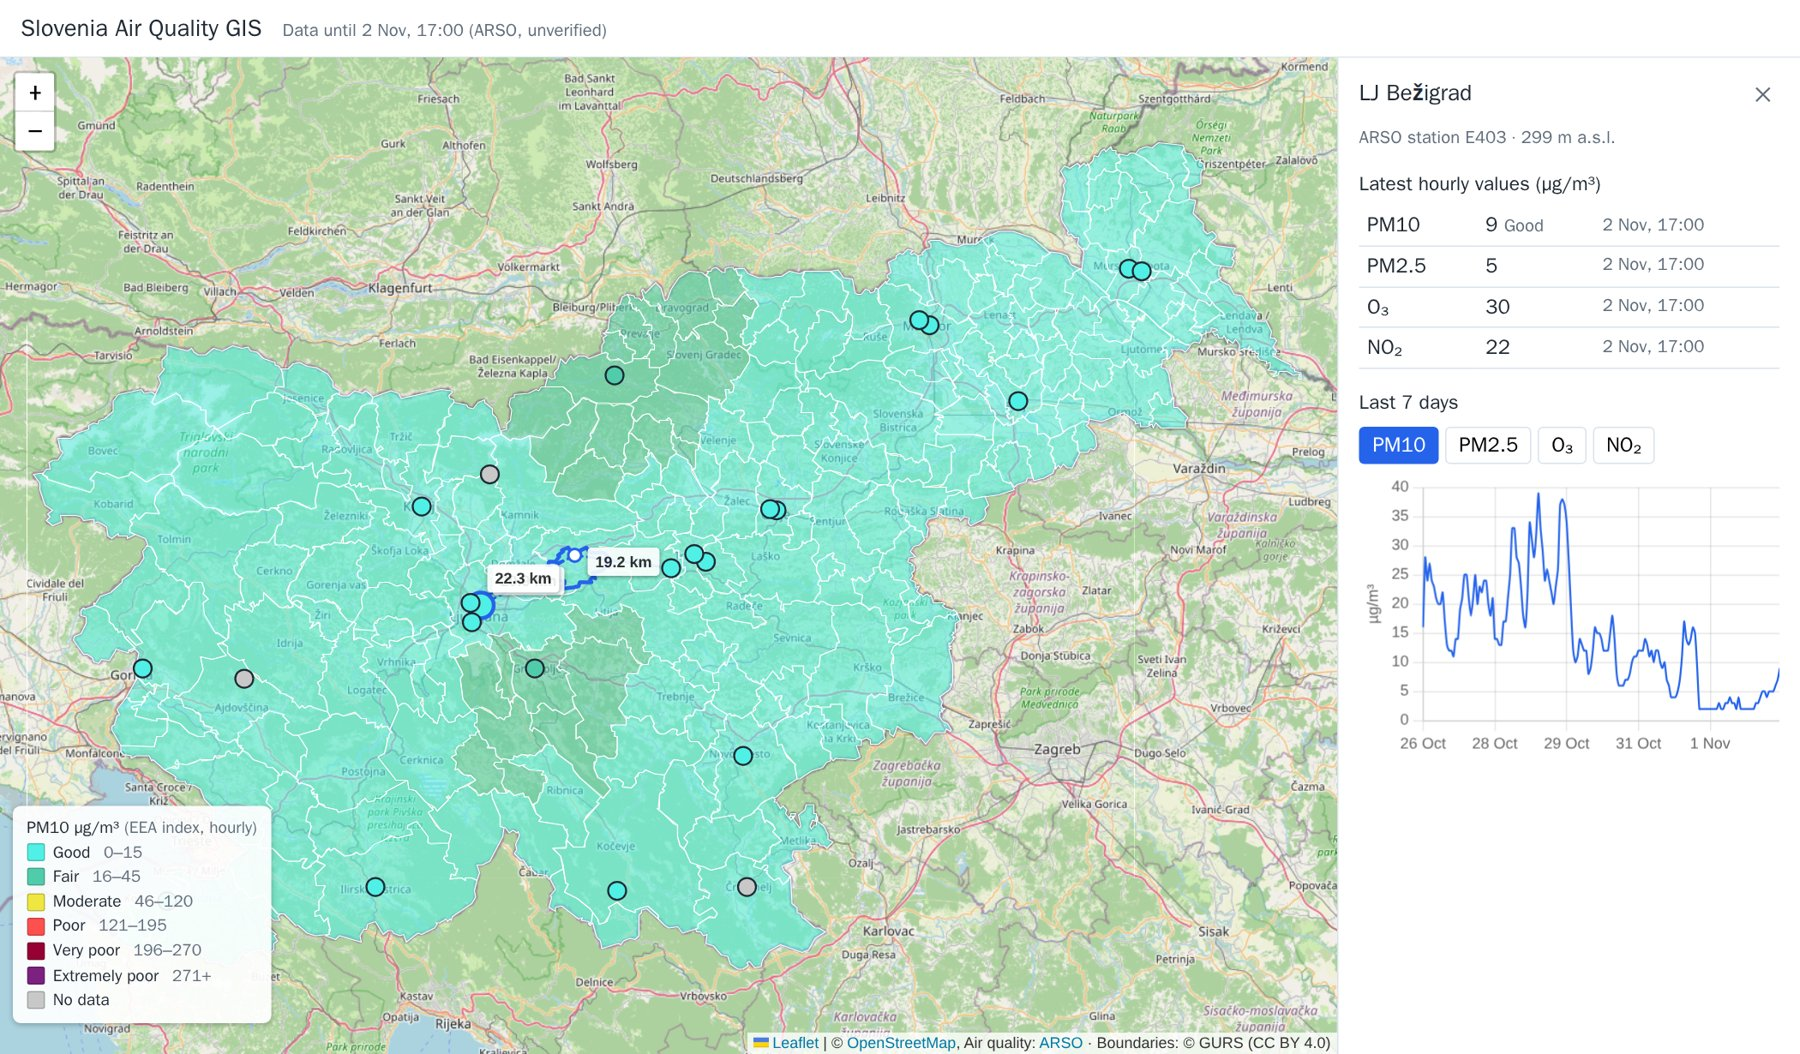
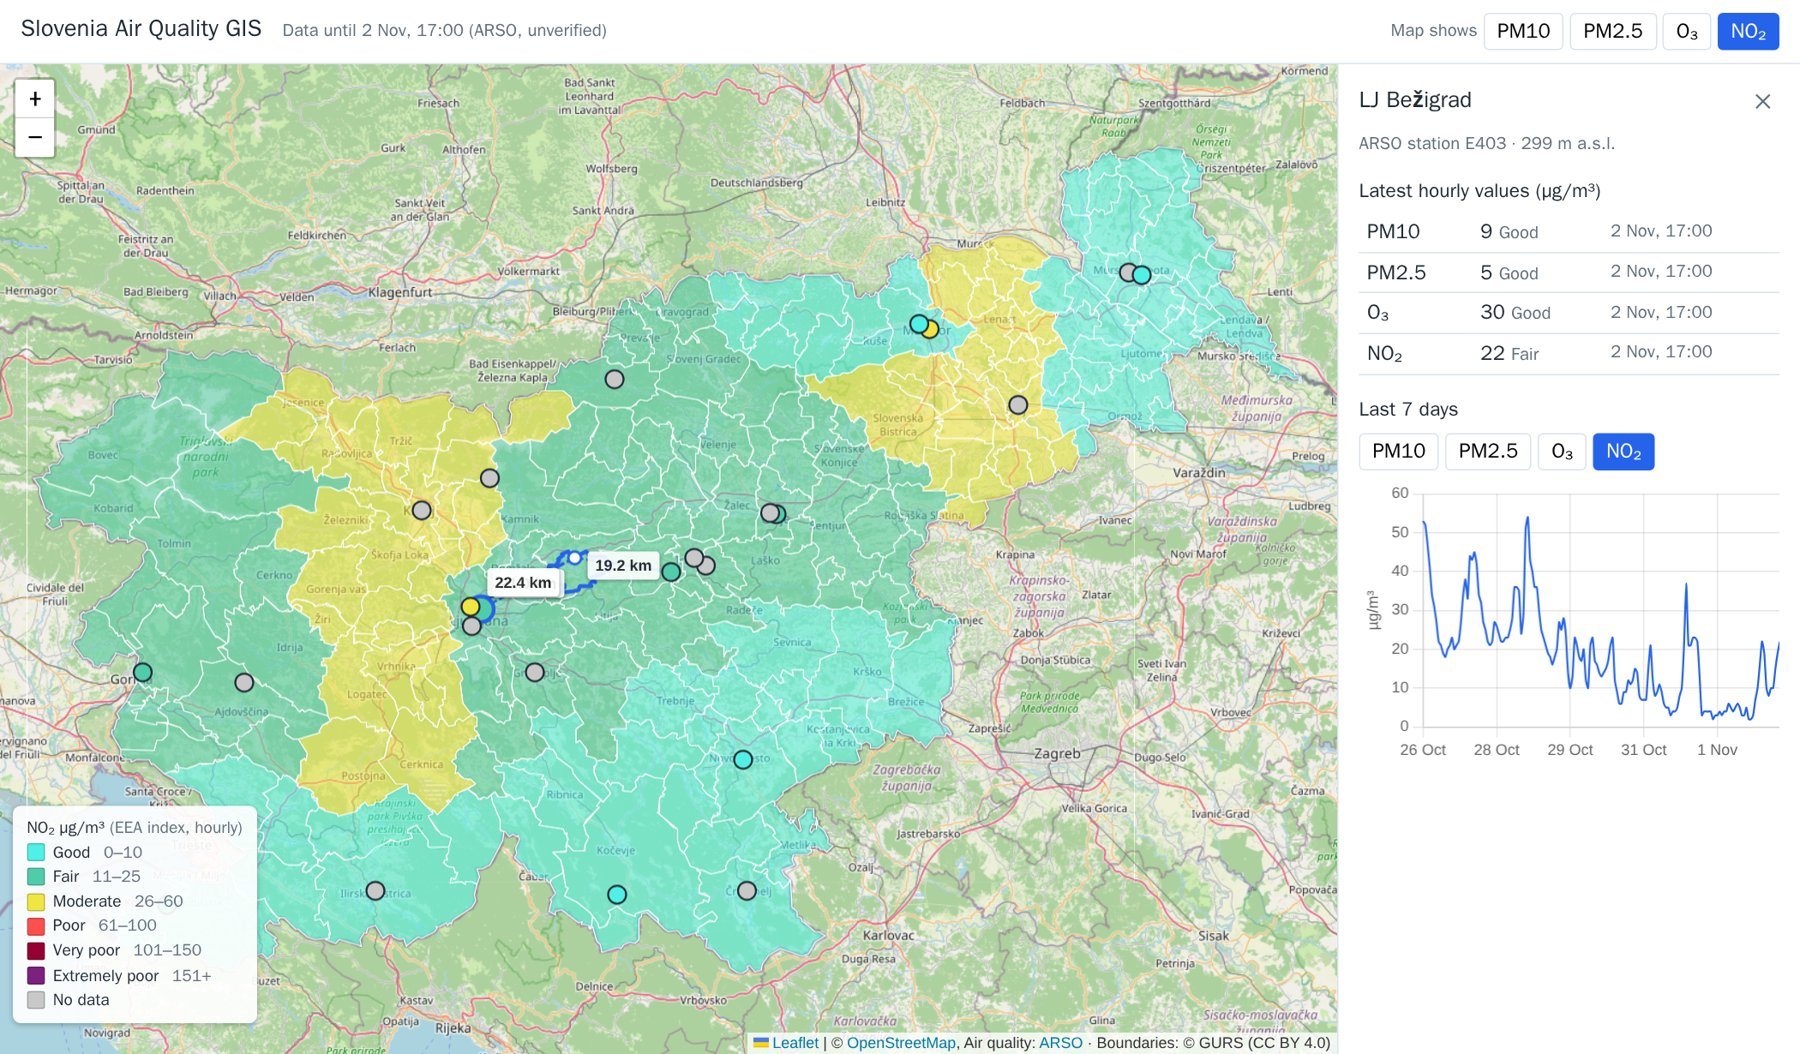
Document the pollutant selector and update screenshot

diff --git a/README.md b/README.md
@@ -10,12 +10,13 @@ with SQL and returns GeoJSON, and a Vue + Leaflet frontend draws the results.
 This is a web rebuild of an older desktop project of mine, a Java/LibGDX weather and
 air-quality map of Slovenia.
 
-![Screenshot: municipalities coloured by PM10, a map click with lines to the nearest stations, and a station panel with its 7-day history](docs/screenshot.jpg)
+![Screenshot: municipalities coloured by the selected pollutant, a map click with lines to the nearest stations, and a station panel with its 7-day history](docs/screenshot.jpg)
 
 **What you can do**
 
-- See every municipality coloured by the latest hourly PM10 value of its nearest station
-  (European Air Quality Index bands).
+- Pick a pollutant (PM10, PM2.5, O₃ or NO₂) and see every municipality coloured by
+  its latest hourly value at the nearest station that measures it (European Air Quality
+  Index bands).
 - Click anywhere to see which municipality you clicked and the 3 nearest stations, with
   distances and lines drawn to them.
 - Click a station to see its latest PM10, PM2.5, O₃ and NO₂ values and a 7-day chart.
@@ -90,7 +91,7 @@ All spatial endpoints return GeoJSON. Invalid parameters return `400` with
 | `GET /api/stations/nearest?lat=&lng=&limit=3` | Nearest stations to a point, with `distance_km` (limit 1–50) |
 | `GET /api/stations/within?lat=&lng=&radius_km=` | Stations within a radius (0.001–500 km) |
 | `GET /api/stations/:code/history?pollutant=&hours=168` | Hourly time series (a Feature with `series` in its properties) |
-| `GET /api/municipalities` | Simplified boundaries + PM10 of the nearest station with a current value |
+| `GET /api/municipalities?pollutant=pm10` | Simplified boundaries + the value of `pollutant` (`pm10`, `pm2.5`, `o3`, `no2`) at the nearest station with a current reading |
 | `GET /api/municipalities/at?lat=&lng=` | The municipality that contains the point (empty if outside Slovenia) |
 | `GET /api/health` | Status and info about the last ingestion run |
 
@@ -132,7 +133,7 @@ The GIST index finds the few polygons whose bounding box contains the point, and
 ST_AsGeoJSON(ST_Multi(ST_SimplifyPreserveTopology(m.geom, 0.001)), 5)
 ...
 LEFT JOIN LATERAL (
-    SELECT ... FROM stations s JOIN latest_readings r ON ... AND r.pollutant = 'pm10'
+    SELECT ... FROM stations s JOIN latest_readings r ON ... AND r.pollutant = $3
     ORDER BY s.geom::geography <-> ST_PointOnSurface(m.geom)::geography
     LIMIT 1
 ) nearest ON true
@@ -143,8 +144,15 @@ LEFT JOIN LATERAL (
   `ST_SimplifyPreserveTopology` never produces invalid or self-intersecting polygons.
 - **Nearest station instead of average.** Only ~20 of the 212 municipalities contain a
   station, so "average of stations inside" would leave most of the map blank. Each
-  municipality instead gets the value of the nearest station with a PM10 reading from the
-  last 6 hours. The panel shows which station that is and how far away.
+  municipality instead gets the value of the nearest station with a reading of the chosen
+  pollutant from the last 6 hours. The tooltip shows which station that is and how far
+  away. This matters most for O₃ and NO₂, which only 11 stations measure.
+- **Why a pollutant selector.** No single pollutant tells the whole story:
+  - PM10 is measured most widely and is Slovenia's classic winter problem (wood heating
+    and temperature inversions).
+  - PM2.5 is the most harmful to health.
+  - O₃ dominates on sunny summer days.
+  - NO₂ tracks traffic.
 - **Point on surface.** `ST_PointOnSurface` is used rather than the centroid because a
   centroid can fall outside a concave polygon.
 
@@ -159,7 +167,7 @@ by the primary-key index.
 | Hourly air-quality measurements and station locations | ARSO – Agencija RS za okolje, XML feed [`ones_zrak_urni_podatki_7dni.xml`](https://www.arso.gov.si/xml/zrak/ones_zrak_urni_podatki_7dni.xml) ([feed overview](https://www.arso.gov.si/zrak/kakovost%20zraka/podatki/kakovost_zraka_xml.html)) | Listed on the national open data portal [podatki.gov.si](https://podatki.gov.si/dataset/podatki-o-kakovosti-zunanjega-zraka-in-padavin-pm10-o3-so2-co-nox-voc-sestava-delcev-kakovost-padavi), whose terms allow reuse with attribution (CC BY 4.0). Source: ARSO. |
 | Municipality boundaries (212 občine) | GURS – Geodetska uprava RS, register of spatial units, public WFS layer `SI.GURS.RPE:OB_G` | [CC BY 4.0](https://creativecommons.org/licenses/by/4.0/), © GURS |
 | Base map | © OpenStreetMap contributors | ODbL |
-| PM10 colour bands | [EEA European Air Quality Index](https://airindex.eea.europa.eu/AQI/index.html) (revised, hourly) | — |
+| Colour bands (all four pollutants) | [EEA European Air Quality Index](https://airindex.eea.europa.eu/AQI/index.html) (revised, hourly) | — |
 
 ARSO marks its real-time data as **unverified and for information only**. The ARSO
 dataset entry on the portal has no license field filled in, so the attribution above
@@ -237,8 +245,8 @@ The full-resolution boundaries are in the database. Only the API simplifies them
   for example to the national 6,000 settlements or a long history.
 - **Interpolated surface:** an IDW or kriging surface instead of the nearest-station
   approximation, with its uncertainty shown honestly.
-- **Overall AQI:** use the worst sub-index across all pollutants, as the EEA does,
-  instead of PM10 only.
+- **Overall AQI:** add an "overall" option that uses the worst sub-index across all
+  pollutants at each station, as the EEA does.
 - **DST edge case:** during the autumn clock change, ARSO's local timestamps for the
   repeated hour are ambiguous. Handling this needs the hour from `datum_od` or UTC
   times from the source.

diff --git a/LEARNING.md b/LEARNING.md
@@ -202,6 +202,21 @@ nginx gzip.
   tooltip names the station and the distance the value comes from. Stale readings (more
   than 6 h older than the newest data) are ignored, so a broken station can't colour the
   map with old values.
+- **Which pollutant colours the map.** The user picks one. No single pollutant is "the"
+  air quality:
+  - PM10 has the best coverage (22 of 24 stations) and is Slovenia's classic winter
+    problem.
+  - PM2.5 is the most harmful to health. The EEA attributes most air-pollution deaths
+    in Europe to it.
+  - O₃ is the summer pollutant.
+  - NO₂ tracks traffic.
+
+  Each has its own EEA band limits (for example "Good" PM2.5 ends at 5 µg/m³, but
+  "Good" O₃ ends at 60), so the legend changes with the selection. The API takes
+  `?pollutant=` and validates it against a fixed list. The value is still passed as a
+  `$3` parameter, never pasted into the SQL. O₃ and NO₂ are measured at only 11
+  stations, so their nearest-station distances are larger, which is one more reason the
+  tooltip shows the distance.
 - **Leaflet instead of MapLibre GL.** The data is small (212 polygons, 24 points) and
   raster OSM tiles need no API key or style JSON. Leaflet's API is the simplest way to
   draw GeoJSON. MapLibre's WebGL vector rendering would be worth it for vector tiles or
